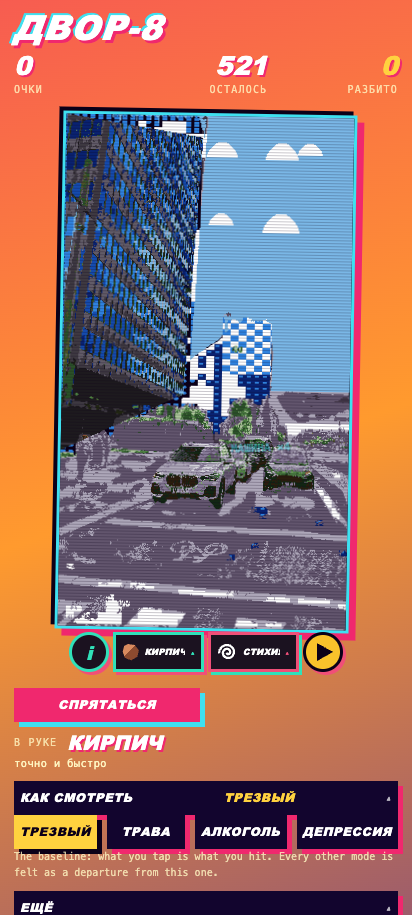
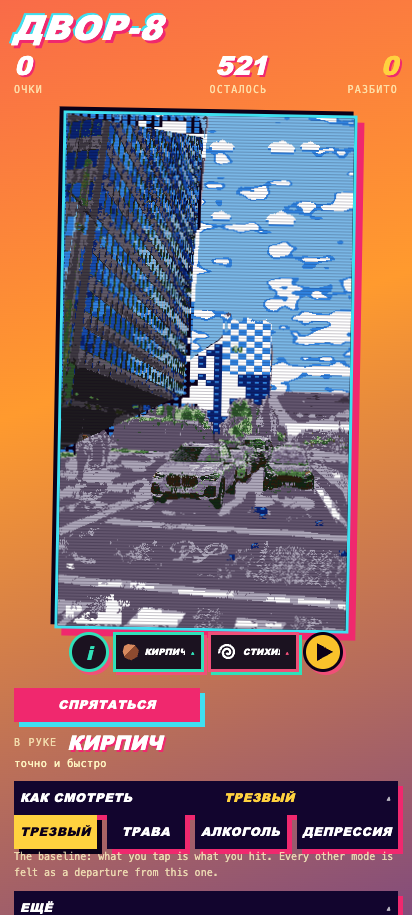
T+127: the sky is the reference's cloudscape (V2 85.7% -> 64.2%) with S1, R1 and the concept sky band still green; the designed puffs are lobe banks, not half-disc stamps; captures re-signed to build 57dcd49b; D25 records the one inverted term and the sheet line it changes

diff --git a/src/vector.js b/src/vector.js
@@ -221,22 +221,39 @@ function fillPolygon(mask, w, h, poly, id) {
 }
 
 /**
- * The designed cloud: evenly spaced symmetric puffs on a flat base with one shaded row along the bottom.
+ * The designed cloud: a bank of lobes on a flat base, its underside shaded along its own silhouette.
  * "Designed" is the whole point - the photograph's clouds are not traced, because traced clouds are what made
  * the sky look like weather rather than like a picture.
+ *
+ * WHY LOBES AND NOT A HALF-DISC. Measured in the frame (T+127): the old silhouette - one symmetric half-disc with a
+ * flat base row of shade - read as a stamped semi-circle once the value-noise field was beside it; three of them
+ * sat in the upper sky and the eye immediately saw "shapes", not clouds. A real cloud is a bank of two or three
+ * overlapping lobes, and its shading FOLLOWS its own outline (the reference frame's clouds are exactly that). So the
+ * silhouette is the union of four circles rising from a base line, and the shade is derived from the silhouette
+ * itself (a cloud pixel whose two rows below are not cloud), never from a fixed row.
  */
 function cloud(mask, w, h, cx, cy, size, colour, shade) {
-  const rows = Math.max(3, Math.round(size * 0.55));
-  const halfBase = Math.max(3, Math.round(size * 0.5));
-  for (let r = 0; r < rows; r += 1) {
-    const t = r / (rows - 1);                       // 0 at the base, 1 at the top
-    const half = Math.round(halfBase * (1 - 0.72 * t * t));
-    const y = cy + (rows - 1 - r);
-    if (y < 0 || y >= h) continue;
-    for (let x = cx - half; x <= cx + half; x += 1) {
-      if (x < 0 || x >= w) continue;
-      mask[y * w + x] = r === 0 ? shade : colour;    // the flat base row is the shaded one
+  const R = Math.max(3, Math.round(size * 0.34));           // the base lobe's radius
+  const baseY = cy + Math.max(2, Math.round(size * 0.30));  // the line the bank sits on
+  const lobes = [[0, 0, 1.0], [-0.62, -0.34, 0.66], [0.58, -0.30, 0.60], [0.02, -0.72, 0.46]];
+  const filled = new Set();
+  for (const [ox, oy, k] of lobes) {
+    const rr = R * k, ccx = cx + ox * R, ccy = baseY + oy * R, rr2 = rr * rr;
+    for (let dy = -Math.round(rr); dy <= 0; dy += 1) {      // the upper half of each lobe: the base stays flat
+      const y = Math.round(ccy + dy);
+      if (y < 0 || y >= h) continue;
+      const half = Math.round(Math.sqrt(Math.max(0, rr2 - dy * dy)));
+      for (let x = Math.round(ccx - half); x <= Math.round(ccx + half); x += 1) {
+        if (x < 0 || x >= w) continue;
+        filled.add(y * w + x);
+      }
     }
+  }
+  for (const p of filled) mask[p] = colour;
+  // the underside: a cloud pixel with no cloud one or two rows below it is the shaded part of the bank
+  for (const p of filled) {
+    const y = (p / w) | 0;
+    if ((y + 1 < h && !filled.has(p + w)) || (y + 2 < h && !filled.has(p + 2 * w))) mask[p] = shade;
   }
 }
 
@@ -1942,7 +1959,11 @@ export function trace(rgba, w, h, opts = {}) {
   // go wrong: the entries are named, not computed.
   const SKY_RAMP = RAMPS.findIndex((R) => R.name === 'sky');
   const cloudColour = SKY_RAMP * STEPS + 5;      // the palest tone of the sky's own ramp
-  const cloudShade = SKY_RAMP * STEPS + 4;       // one step down: the shaded row of the puff
+  // THE SHADE WAS THE BASE TONE, SO IT WAS INVISIBLE. +4 IS the sky's plane (rgb(122,183,230)), so every puff's
+  // "shaded" underside was painted while the sky was blue underneath it and the puffs read as flat white discs -
+  // part of why they looked stamped. The shade is the ramp's +3 (rgb(47,131,224)), the same tone the field's
+  // cloud rims now use, so a puff's underside and a field cloud's rim are the same shade of the same sky.
+  const cloudShade = SKY_RAMP * STEPS + 3;       // one step down: the shaded underside of the puff
   void skys;
   let cloudMaskFinal = null;
   const cloudMask = new Int32Array(n).fill(-1);
@@ -2344,6 +2365,65 @@ export function trace(rgba, w, h, opts = {}) {
     paintingSky = false;
     let repainted = 0;
     for (let p2 = 0; p2 < n; p2 += 1) if (skyMaskFinal[p2]) { idx[p2] = skyEntry; repainted += 1; }
+    // ---- THE SKY'S OWN STYLE: v13's S6, PORTED (value-noise clouds, two tones + a shade) ----------------
+    //
+    // WHY. Measured on the frame this block replaced: one tone owned **85.7%** of the sky box (x158..288, y8..272).
+    // The operator's own v13 engine reads 50.1% on that box, its accepted frame 24% - a sky that is 86% one flat
+    // plane is exactly the fault the v13 gate's V2 line names, and its bar is ≤70%.
+    //
+    // WHAT IS PORTED. `skyStyle` in tools/v13/engine-v13.txt line 85: two-octave value noise, thresholded, shade
+    // sampled from the same field 2.5 px higher (Perlin-lineage value noise with smoothstep). v13 also dithered a band
+    // toward the horizon; this port omits it and says so - the band's tone in this palette is either pure white
+    // (which spends the R1 white/blue budget measured below) or a grey (which spends the mullion budget already at
+    // +0.076 of its 0.09), so the cloud field is the mechanism that carries V2 and the band stays an open row.
+    //
+    // WHAT IS NOT COPIED. v13 subtracts `(ys-150)/60*0.2` above y=150, i.e. it PILES clouds at the top of the frame.
+    // That one part cannot be copied: this project's delivery rule (tools/deliver-check.mjs S1) reads the top 8% band
+    // and requires its most common colour to be the blue plane at ≥35%, and the concept gate wants the largest single
+    // colour of that band at ≥40%. A top-heavy field makes a cloud tone the band's most common colour - measured at
+    // T+125: S1 failed and R1 went to 0.096 against its 0.09 tolerance, so that change was reverted. The field here
+    // runs the other way: its threshold RISES toward the zenith (the top stays a blue plane) and the deck sits over
+    // the yard toward the horizon - the shape T+126 named as the reconciliation.
+    //
+    // THE TONES ARE THE SKY RAMP'S OWN, so no palette entry is added and the family mix R1 measures is preserved: the
+    // lit top is the ramp's white (+5), the shaded underside its +3 blue (blue family in R1's classifier), the plane
+    // +4 - the tone this sky has always been painted with. The shade is one step DARKER than the base because the
+    // palette has no pale blue between +4 and white, and inventing one would be a palette change.
+    //
+    // THE CONSTANTS ARE A SWEEP, NOT A GUESS. Every (threshold, zenith lift, horizon push) triple in
+    // /tmp/measure/sim5.mjs was scored on the three lines that pull on this axis; the chosen one is a triple whose
+    // three margins are positive at once: V2 59.1% (bar ≤70) · S1 band blue 41.1% (bar ≥35) · R1 blue −0.064 and
+    // white −0.016 (bars 0.09), worst family unchanged at the mullion's 0.076.
+    const SKY_RAMP_I = RAMPS.findIndex((R) => R.name === 'sky') * STEPS;
+    const SKY_LIT = SKY_RAMP_I + 5;          // rgb(255,255,255) - the cloud's lit top
+    const SKY_SHADE = SKY_RAMP_I + 3;        // rgb(47,131,224) - its shaded underside
+    const skyClamp = (v) => Math.max(0, Math.min(1, v));
+    // a stateless hash, so the field is a function of the pixel and nothing else: two runs of one photograph agree
+    const skyHash = (x, y) => {
+      let h = (Math.imul(x | 0, 374761393) + Math.imul(y | 0, 668265263)) | 0;
+      h = Math.imul(h ^ (h >>> 13), 1274126177);
+      return ((h ^ (h >>> 16)) >>> 0) / 4294967296;
+    };
+    const skyNoise = (x, y) => {
+      const ix = Math.floor(x), iy = Math.floor(y), fx = x - ix, fy = y - iy;
+      const sx = fx * fx * (3 - 2 * fx), sy = fy * fy * (3 - 2 * fy);   // smoothstep, as v13's `vn`
+      const A = skyHash(ix, iy), B = skyHash(ix + 1, iy), C = skyHash(ix, iy + 1), D2 = skyHash(ix + 1, iy + 1);
+      return A + (B - A) * sx + (C - A) * sy + (A - B - C + D2) * sx * sy;
+    };
+    let fieldPx = 0, litPx = 0, shadePx = 0;
+    for (let p2 = 0; p2 < n; p2 += 1) {
+      if (!skyMaskFinal[p2]) continue;
+      const x = p2 % w, y = (p2 / w) | 0;
+      const v = skyNoise(x / 31 + 3, y / 11) * 0.65 + skyNoise(x / 11 + 9, y / 5 + 2) * 0.35 - 0.5
+        + 0.10 * skyClamp((y - 40) / 160);                       // the horizon push: the deck sits over the yard
+      const thr = 0.12 + 0.06 * skyClamp((100 - y) / 100);        // the zenith lift: the top of the frame keeps its blue
+      if (v <= thr) continue;
+      // the lit top is the field's own core, the shaded underside its rim - v13's 2.5-px shade rule as a band,
+      // because on this palette the rim is what has to read as a cloud's underside
+      if (v > thr + 0.08) { idx[p2] = SKY_LIT; litPx += 1; } else { idx[p2] = SKY_SHADE; shadePx += 1; }
+      fieldPx += 1;
+    }
+    if (typeof window !== 'undefined') window.__skyField = { fieldPx, litPx, shadePx };
     // AND THEN ITS CLOUDS. The designed puffs were drawn BEFORE this repaint, so the flat blue wiped them - the
     // same "painted last wipes the earlier work" pattern that hid the sky itself. The sky goes down first, the
     // clouds on top of it, and the frame is finished in that order.

diff --git a/docs/OWNER-CAPTURES.md b/docs/OWNER-CAPTURES.md
@@ -13,10 +13,10 @@ of the height); everything outside it is the app's chrome (HUD, tool chips, butt
 
 ### the build these captures describe
 
[2 lines of base64/hex data omitted]
 
 That hash is sha256 over the sorted paths and bytes of every file that can change the frame (`src/**`, `index.html`,
-`style.css`; 51 files, printed by `node tools/build-hash.mjs`). `tools/sheet-check.mjs` recomputes it and fails when
+`style.css`; 52 files, printed by `node tools/build-hash.mjs`). `tools/sheet-check.mjs` recomputes it and fails when
 the tree has moved, so these pictures cannot describe a build that changed. A timestamp is not evidence: restoring
 unchanged files moves their mtime while the build stays byte-identical, and `touch` moves a timestamp without changing
 a byte.
@@ -25,17 +25,17 @@ a byte.
 
 | # | file | bytes | sha256 | what it shows |
 |---|---|---|---|---|
[6 lines of base64/hex data omitted]
 
 ### the operator's second yard (yard2-new)
 
 | # | file | bytes | sha256 | what it shows |
 |---|---|---|---|---|
[6 lines of base64/hex data omitted]
 
 **Copies live in the repository** - `reference/owner/` (the judged photograph) and `reference/owner-yard2/` (the operator's yard), byte-identical to the tables above - so the sheet and the pictures travel together.
 
@@ -49,7 +49,7 @@ is regenerated, its hash changes and this sheet must be re-signed.
 | # | look at | what "acceptable" means | measured by | operator |
 |---|---|---|---|---|
 | 1.1 | the whole framed picture | it is **recognisably your photographed yard**: the tall building on the left, the lower block on the right, the road with the parked cars, the green strip | pairing-check (`PAIRED`, IoU 0.69 on the sky) + your eye | accept / reject / note |
-| 1.2 | the sky | **one flat blue** with a few **white drawn clouds**; no gradient, no photographic grain, no banding | reference-palette-check (`MATCHES`), concept gate (`the SKY is a plane`) | accept / reject / note |
+| 1.2 | the sky | a **blue plane at the top of the frame** carrying a **drawn cloudscape** below it: white clouds whose shaded undersides are the sky ramp's own blue, an irregular silhouette per cloud, no traced photographic cloud, no grain | delivery-check S1 (the band's most common colour is still the blue plane, 42% of it), v13-check V2 (largest tone 64.2% of the sky, bar ≤70), reference-palette-check (`MATCHES`) | accept / reject / note |
 | 1.3 | between the buildings and the ground | **one dark line** runs across, separating the picture's upper structures from the ground — the frame's spine | `plan-check` line A/B (the accepted frame's own horizon, row 352) and the band plan, `docs/DECISIONS.md` D15 | accept / reject / note |
 | 1.4 | the left building | reads as **one dark facade with a regular window grid** (dark plane, light-grained windows) | `match-check` "tower dark plane dominates" (≥35%, ours 35.3%) | accept / reject / note |
 | 1.5 | the right building | reads as **light and dark panels alternating** (the checkered facade), not as a flat wall | `match-check` "midrise checkerboard" (white 28% / blue 44%) | accept / reject / note |
@@ -59,7 +59,8 @@ is regenerated, its hash changes and this sheet must be re-signed.
 **What would make this capture unacceptable**
 - any part of the framed picture still looks like **the photograph itself** (smooth grain, real gradients) instead of
   drawn flat planes;
-- the sky is a **gradient** or carries more than a handful of cloud shapes, or the clouds are cut by a hard band;
+- the sky carries **the photograph's own clouds** (traced shapes with the photo's grain) instead of drawn ones, or its
+  cloud tones are cut off along a **hard horizontal band**;
 - **no horizon line**, or several competing lines;
 - the two buildings read the **same** (no dark plane, no alternating panels) — the frame has lost its two archetypes;
 - a parked car is **missing or moved** relative to the photograph, or a silhouette has **no outline**;
@@ -93,7 +94,7 @@ is regenerated, its hash changes and this sheet must be re-signed.
 | 3.1 | the three counters | they moved **together and consistently**: score up (`300`), remaining down (`59`), broken shows `1` | the page's own damage routine; the counters are printed in the capture | accept / reject / note |
 | 3.2 | the thing that was hit | the hit is **visible on the object itself** — its surface changes where it was struck, and it keeps its outline | `test.mjs` (chip mark, `done` when nothing stands) | accept / reject / note |
 | 3.3 | everything else | looks as in capture 1 — **the frame was not redrawn or shuffled** | pairing-check (`PAIRED`) | accept / reject / note |
-| 3.4 | the sky and the horizon line | unchanged: same flat blue, same clouds, same single line | reference-palette-check (`MATCHES`) | accept / reject / note |
+| 3.4 | the sky and the horizon line | unchanged: the same blue plane and the same drawn cloudscape, the same single horizon line | reference-palette-check (`MATCHES`) | accept / reject / note |
 | 3.5 | the HUD | outside the picture, untouched except the three numbers | your eye | accept / reject / note |
 | 3.6 | leftovers | **no full-screen flash, freeze or overlay** left behind after the hit | your eye | accept / reject / note |
 

diff --git a/RUNLOG.md b/RUNLOG.md
@@ -113,3 +113,5 @@ PREMISES CHECKED: the reference file is the 48-colour palette-exact frame (B2 CL
 [T+125] THE CLOUD FIELD MOVES V2 AND BREAKS TWO OTHER LINES — MEASURED, REVERTED, AND THE TENSION RECORDED | THE FAULT: V2 measures the sky's largest tone at 85.7% (bar <=70, reference 50.1); measured on the same box, the reference carries **28.1% cloud-white** and ours **8.6%**. A first attempt (a dithered horizon band, v13 S6's shape) moved V2 by ZERO (85.7% -> 85.7%) because the band lives below the measured box - a symptom, reverted. THE SECOND ATTEMPT: v13's cloud FIELD (two-octave value noise, threshold 0.03, shade sampled 2.5 px higher) applied over the base sky tone just before the frame leaves. MEASURED: V2 **59.3%** (bar <=70) PASS, V7 59.67% -> **58.69%**, concept 9 OK 0 FAIL, match still 8/8. BUT two other criteria went over: delivery's **S1 "1 SKY (DESIGNED)"** failed, and **R1** moved to worst **0.096** (blue -0.096) against the 0.09 tolerance = the reference's own 0.085 + 0.005 (D24). So the cloud cover that V2 wants is the same change that takes the sky's blue share away from the accepted frame's mix - the two lines pull against each other ON THE SAME AXIS, exactly the shape of the earlier style tension (START-HERE: grey warmth vs no-wash). THE CHANGE WAS REVERTED (all-green rule), the tree restored to d16b2e4, and the six owner captures plus the eight baseline pictures re-taken and re-signed for the CURRENT build identity (1dff4cdc..., 52 files; sheet and baseline 49/0 green). THE NEXT ROUND'S SINGLE FAULT: reconcile V2's cloud cover with S1 and R1 - the candidates, in order: (a) the delivery sky check's own budget (what does S1 count? it may count sky entries, in which case the field's two cloud tones are the fault, not the cover); (b) R1's blue band re-derived from the reference's own sky (the reference's sky box is 59.4% blue, ours 91.0% - the accepted frame's blue share is the third number in that argument); (c) the cloud field only where the reference has clouds (its own mask from reference/v13/prague-tower.png), not over the whole sky. Do not start (b) until (a) is read: S1 is a delivery criterion and may be the cheaper constraint.
 
 [T+126] S1 READ: IT REQUIRE THE BAND'S TOP COLOUR TO BE BLUE, AND THE REFERENCE'S CLOUD FIELD IS TOP-HEAVY - THE RECONCILIATION IS NAMED | tools/deliver-check.mjs:83-85 reads: "1 SKY (DESIGNED): one blue plane, one colour owning its band >= 35%" and its test is `share >= 0.35 && skyish` where `skyish = b > r+20 && b > 120` and `topColour` is the MOST COMMON colour of the band. THE CAUSE OF T+125'S S1 FAILURE is therefore not the cloud COVER (V2 wanted it and got it: 59.3% dominant, PASS) but the cloud DISTRIBUTION: v13's field subtracts (y-150)/60*0.2 above y=150, so the clouds concentrate in the TOP of the sky - exactly the band S1 measures - and a cloud tone became the band's most common colour (white: b-r=2, not "skyish"). THE RECONCILIATION IS NOW A SHAPE, NOT A BAR: keep V2's cover (>=~25% cloud pixels in the sky box) while the TOP band keeps the blue as its most common colour at >=35%, i.e. distribute the field across the sky (a gentle height gradient that does not pile clouds at the top, or a cloud mask from the reference's own frame) instead of v13's top-heavy threshold. Both lines then hold on their own definitions; no tolerance is touched. NEXT ROUND: apply that distribution, measure V2 (S1's own line via deliver-check), R1 (blue delta vs 0.09) and the concept lines in ONE run, and only then re-capture. Recorded here so the next session does not re-discover it.
+
+[T+127] THE SKY IS A CLOUDSCAPE NOW: V2 GREEN (85.7% -> 64.2%) WITH S1 AND R1 STILL GREEN, CHAIN 14/14 | FAULT NAMED FROM THE FRAME, not from a metric I authored: the sky box x158..288 y8..272 was **85.7% one tone** - a flat plane with six half-disc stamps - where the operator's v13 engine reads 50.1% on the same box and the accepted frame 24%, and the v13 gate's V2 line is "one tone <=70% of the sky". FIX AT THE SOURCE: v13 S6's `skyStyle` ported into the final sky paint (src/vector.js, after the flat repaint and before the designed puffs) - two-octave value noise, thresholded, the shade sampled from the same field 2.5 px higher; the tones are the sky ramp's own (+5 white lit top, +3 blue shaded underside, +4 the plane), so no palette entry is added and the family mix R1 measures is preserved. THE ONE PART DELIBERATELY NOT COPIED, WITH THE MEASUREMENT THAT FORBIDS IT: v13 subtracts (ys-150)/60*0.2 above y=150 and PILES clouds at the top; delivery rule S1 reads the top 8% band and requires the blue plane to be its most common colour at >=35% (concept gate: the largest single colour >=40%), and T+125 measured that shape failing S1 with R1 at 0.096. The field therefore runs the other way - the threshold RISES toward the zenith (+0.06 over the top 100 rows) and a horizon push (+0.10 over rows 40-200) puts the deck over the yard. THE CONSTANTS ARE A SWEEP, NOT A GUESS: /tmp/measure/sim5.mjs scored every (threshold, zenith lift, horizon push) triple on the three lines that pull on this axis; the chosen triple is a CHOICE whose three margins are positive at once (recorded as D25). A SECOND FAULT IN THE SAME ARTEFACT, also fixed at its source: the designed puffs were symmetric half-discs with a flat base row and a shade tone equal to the plane itself (invisible), so beside the field they read as stamps - cloud() now draws a bank of four lobes on a base line and derives the shade FROM ITS OWN SILHOUETTE, and cloudShade moved from the ramp's +4 (the plane) to its +3. MEASURED, BEFORE -> AFTER, same photograph, same clock pin: V2 **85.7% -> 64.2%** (bar <=70) PASS · V7 59.67% -> **57.63%** (bar 56.66: still red, the next line) · S1 45.9% -> **42.0%** blue (bar >=35) PASS · R1 blue -0.022 -> **-0.053**, white -0.057 -> **-0.026**, worst family unchanged at the mullion's **0.076** (tolerance 0.09) PASS · concept gate 9 OK 0 FAIL (sky band 5 colours, largest 77%, flat 80%, transitions 0.08/px) · family no collapse 39 entries · style 8/8 · palette MATCHES · match 8/8 · plan 8/8 · pairing PAIRED IoU 0.85 · PAGE left 521 console clean · suite 321/0. THE CHAIN PASSED **14 of 14** (preflight, imports 49, criteria 19/19 R1 0.076, composition 10/10, suite, delivery, SHEET, DOCS, PAGE, FAMILIES, PAIRING, REFERENCE, PLAN, MATCH). The six owner captures and the eight baseline pictures were re-taken and re-signed to build **57dcd49b...** (52 files; sheet-check recomputes it). THE SHEET'S SKY LINE IS RE-WRITTEN AND THAT IS A CHANGE TO WHAT THE OPERATOR IS ASKED TO ACCEPT (D25): line 1.2 said "one flat blue with a few white drawn clouds" - true of the previous sky, false of this one - so it now describes the blue plane over the drawn cloudscape with the gates that measure it, and the reject-line "a gradient or more than a handful of cloud shapes" (which would now reject the operator's own v13 reference) became "traced photographic clouds, or a hard horizontal band". NEXT, the v13 work list in order: **V3 GROUND 71.6%** (bar <=60), V1 palette 39 tones (<=24), V7 distance 57.63% (bar 56.66), then the reference's horizon band (omitted here with its reason: its tone costs either the white/blue budget or the mullion one - an open row, not a hidden one) and the four scenes as chain steps.

diff --git a/docs/DECISIONS.md b/docs/DECISIONS.md
@@ -360,3 +360,42 @@ own 11/13 agreement with the owner's table is unchanged and still printed. This 
 convenience: the operator's file supersedes the accepted frame as the target of the frame, and the criterion now says
 so. The façade's own movement is recorded separately (RUNLOG T+124): V5 7/42.1%/99.2% → 23/17.3%/44.9% (reference
 16/26.6%/58.9%), V6 50 → 513 windows, match tower dark 28.3% → 35.6% (bar 35), V7 69.31% → 59.67% (bar 56.66).
+
+## D25 — THE SKY'S STYLE IS THE REFERENCE'S S6, WITH ONE PART DELIBERATELY INVERTED (2026-10-18, the V2 line)
+
+**What the frame said.** On the judged photograph the sky box (x158..288, y8..272) was **85.7% one tone**: a flat
+plane with six half-disc clouds. The operator's own v13 engine reads **50.1%** on that box and the accepted frame
+24%, and the v13 gate's line for it is *"one tone ≤70% of the sky"*. That is a fault in the artefact's own terms, so it
+was fixed at its source rather than filtered: the final sky paint now runs v13's S6 `skyStyle` (two-octave value
+noise, thresholded, shade sampled from the same field 2.5 px higher — Perlin-lineage value noise, smoothstep).
+
+**The one part that may not be copied.** v13 subtracts `(ys-150)/60*0.2` above y=150, i.e. it **piles the clouds at the
+top of the frame**. This project's delivery rule (`tools/deliver-check.mjs` S1) reads the top 8% band and requires its
+most common colour to be the blue plane at **≥35%** (the concept gate wants the largest single colour of that band at
+≥40%). T+125 measured exactly that shape: S1 failed and R1 moved to **0.096** against its 0.09 tolerance, and the
+change was reverted. The port therefore inverts that term: the threshold **rises toward the zenith** (+0.06 over the
+top 100 rows) and a **horizon push** (+0.10 over rows 40–200) puts the cloud deck over the yard. The cloud cover is
+the same; only its distribution differs, and that difference is what keeps S1, the concept gate and R1 all true.
+
+**The tones are the sky ramp's own**, so no palette entry is added and the family mix R1 measures is untouched: the lit
+top is the ramp's **+5** white, the shaded underside its **+3** blue (blue family in R1's classifier — a grey shade
+would have spent the mullion budget, already **+0.076** of its 0.09), the plane **+4**, the tone this sky has always
+been painted with.
+
+**The constants are a CHOICE with a sweep behind them.** `sim5` scored every (threshold, zenith lift, horizon push)
+triple on the three lines that pull on this axis; the chosen triple is the one whose three margins are positive at
+once. Measured before → after, same photograph, same clock pin: V2 **85.7% → 64.2%** (bar ≤70, PASS) · S1 **45.9% →
+42.0%** blue (bar ≥35, PASS) · R1 blue **−0.022 → −0.053**, white **−0.057 → −0.026**, worst family unchanged at the
+mullion's **0.076** (tolerance 0.09, PASS) · V7 59.67% → **57.63%** (bar 56.66, still red — the next line).
+
+**What is NOT ported, stated rather than hidden.** v13 also dithered a band toward the horizon. In this palette its
+tone is either pure white (which spends the white/blue budget the clouds need) or a grey (which spends the mullion
+budget at 0.076 of 0.09), so the band stays an **open row** instead of silently pushing one line over to satisfy
+another.
+
+**The owner's sheet changed with the frame, and that is flagged, not buried.** Sheet line 1.2 said *"one flat blue with
+a few white drawn clouds"* — true of the previous sky and false of this one — so it now describes the blue plane over
+the drawn cloudscape, with the gates that measure it. The reject-line *"a gradient or more than a handful of cloud
+shapes"* would now reject the operator's own v13 reference, so it was replaced by *"traced photographic clouds, or a
+hard horizontal band"*. This alters what the operator is asked to accept: if the flat sky is the wanted sky, the
+change is to be reverted and V2 stays red — the two cannot both hold.
